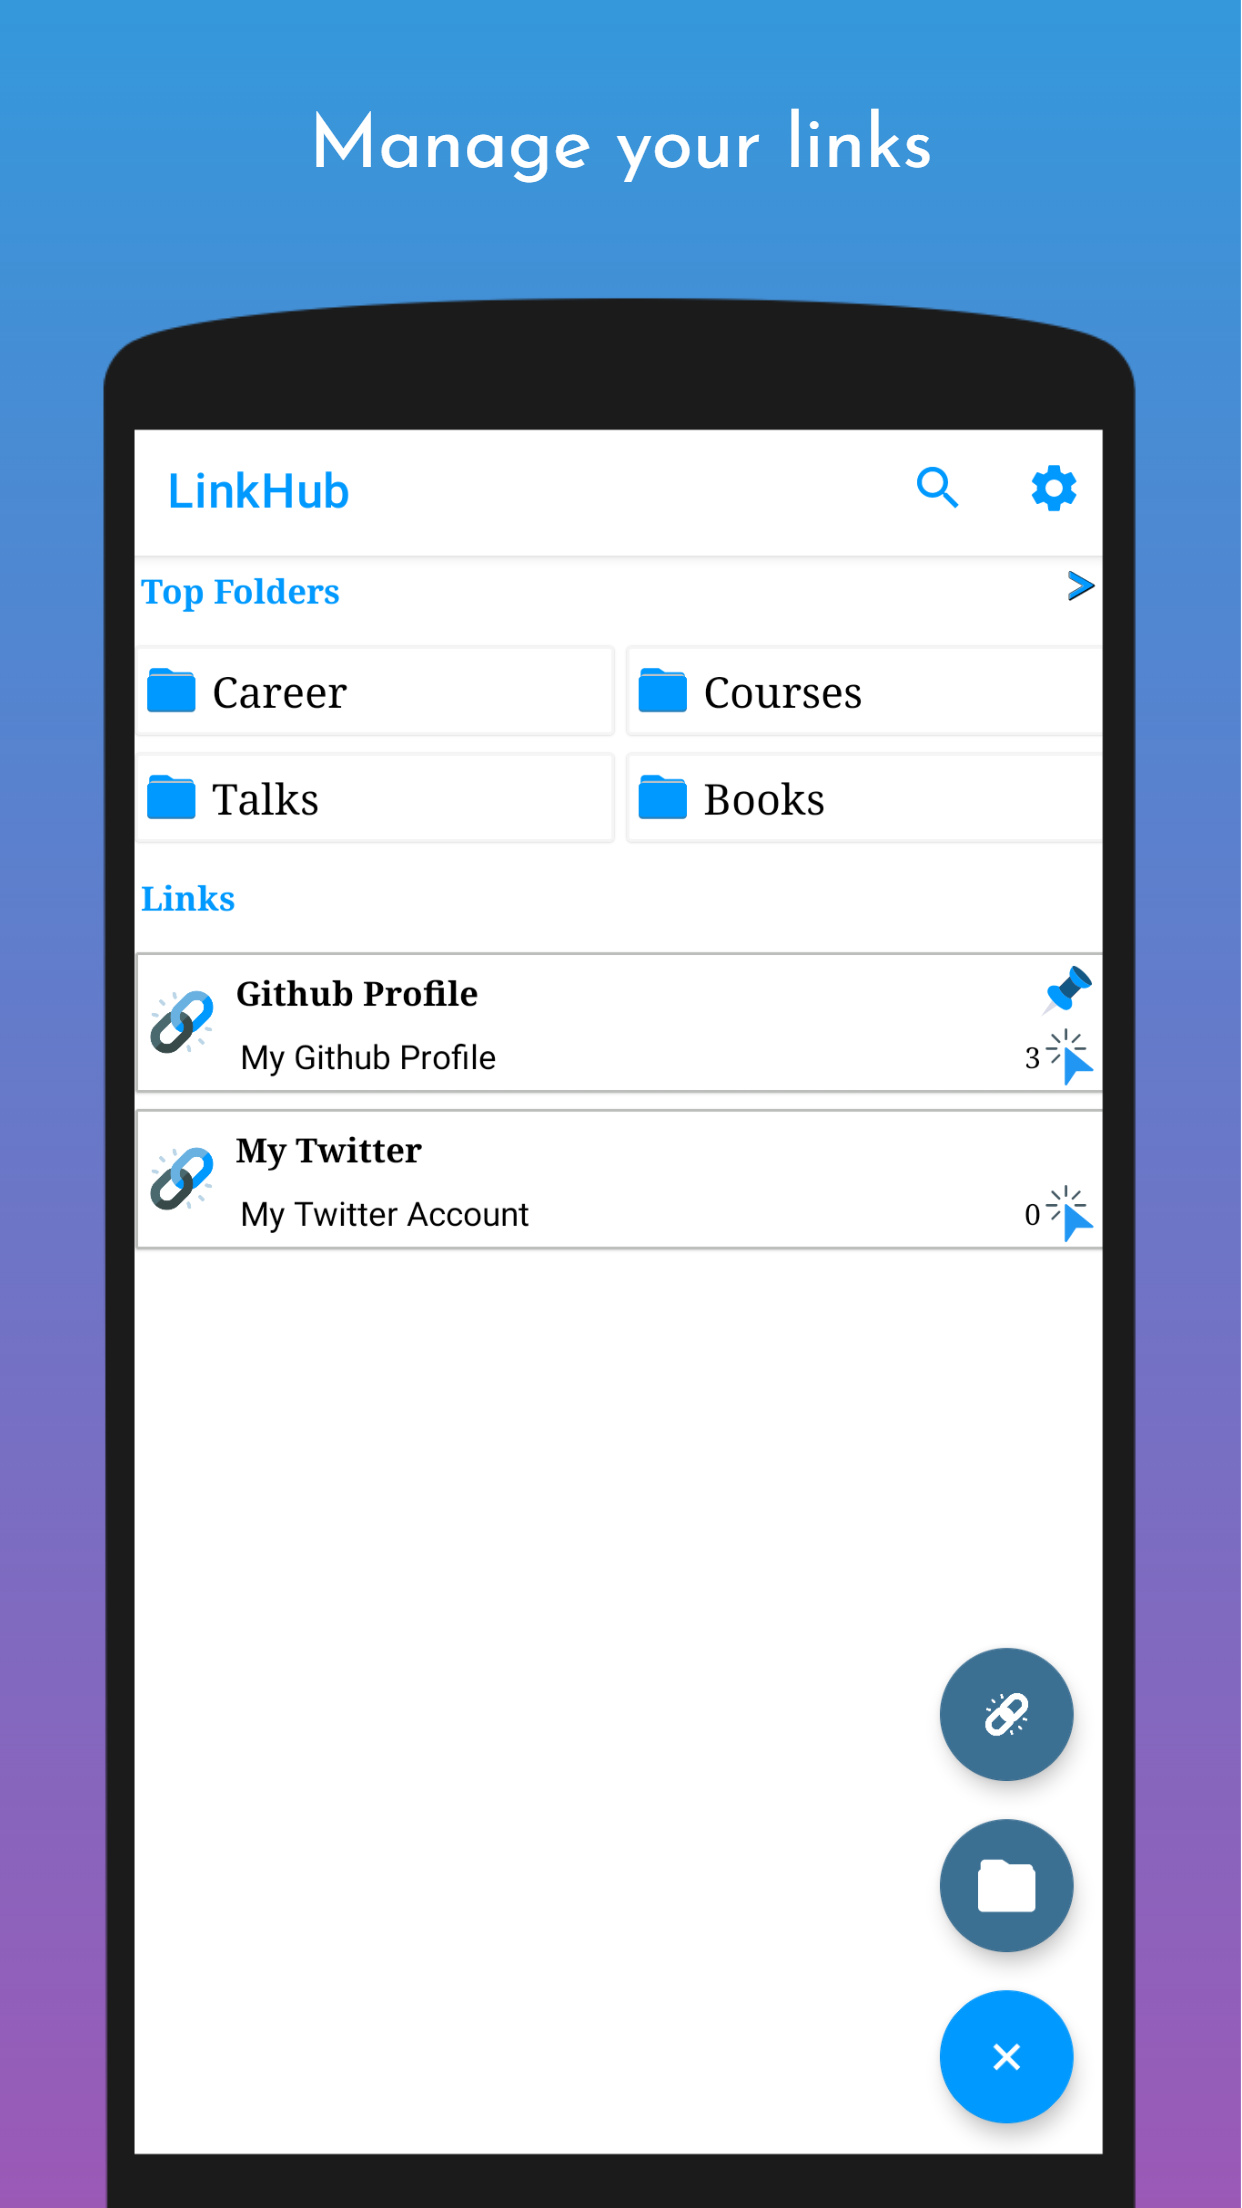
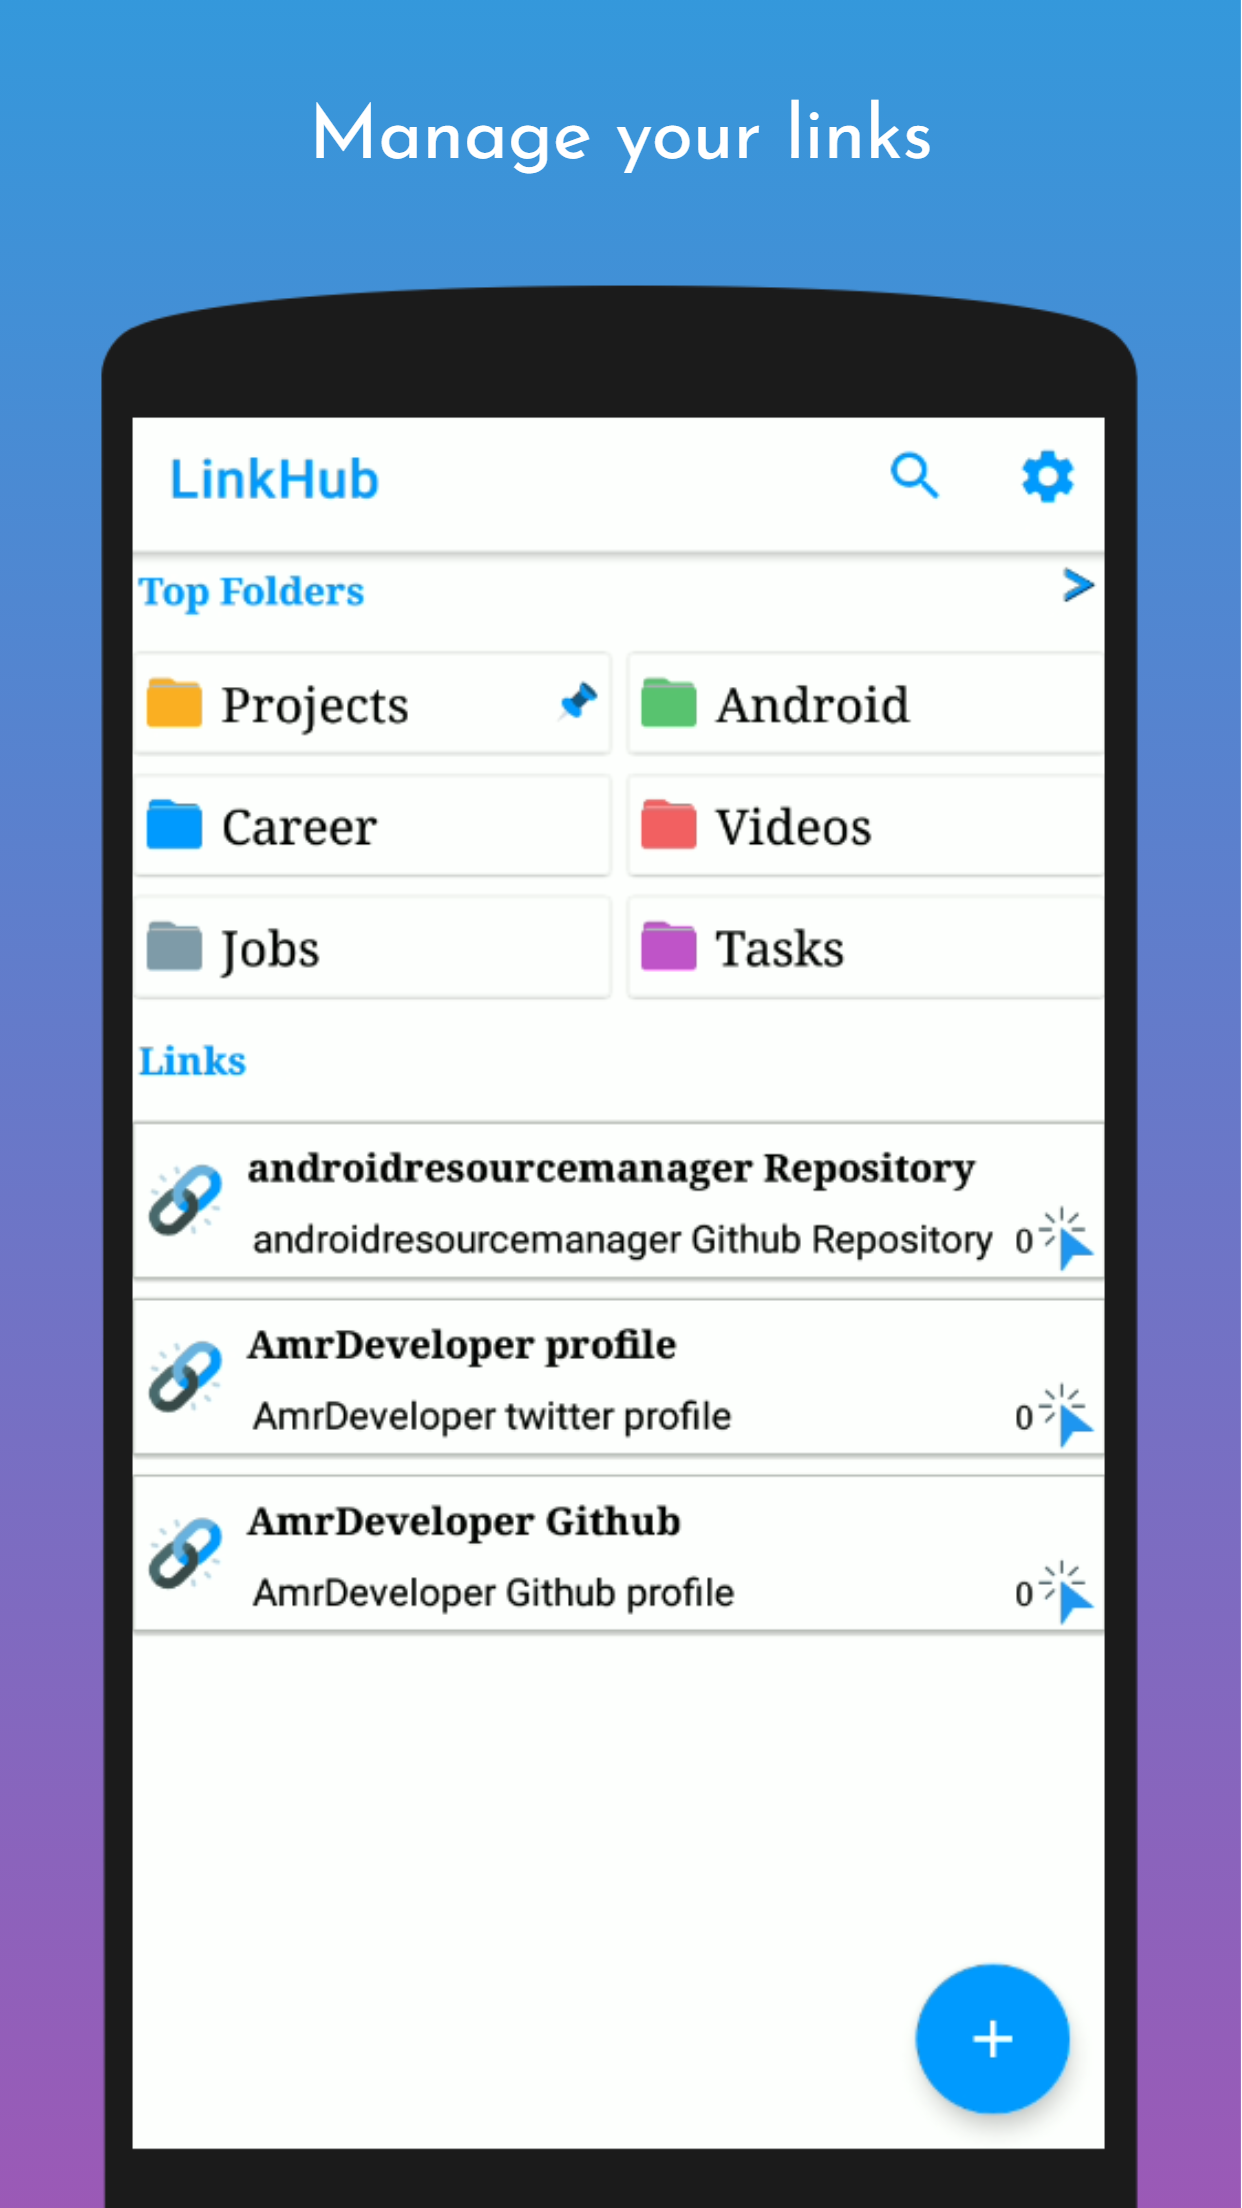
Add Screenshot for new version features | update readme

diff --git a/README.md b/README.md
@@ -27,7 +27,7 @@ With LinkHub you can copy, edit, open your link just by one click
 
 ## Features
 - Free And open source with no ads
-- Create Folder with name
+- Create Folder with name and multi colors
 - Create Link with title, subtitle, url
 - Links and Folders are sorted depending on your usage
 - Search easily in links and folders
